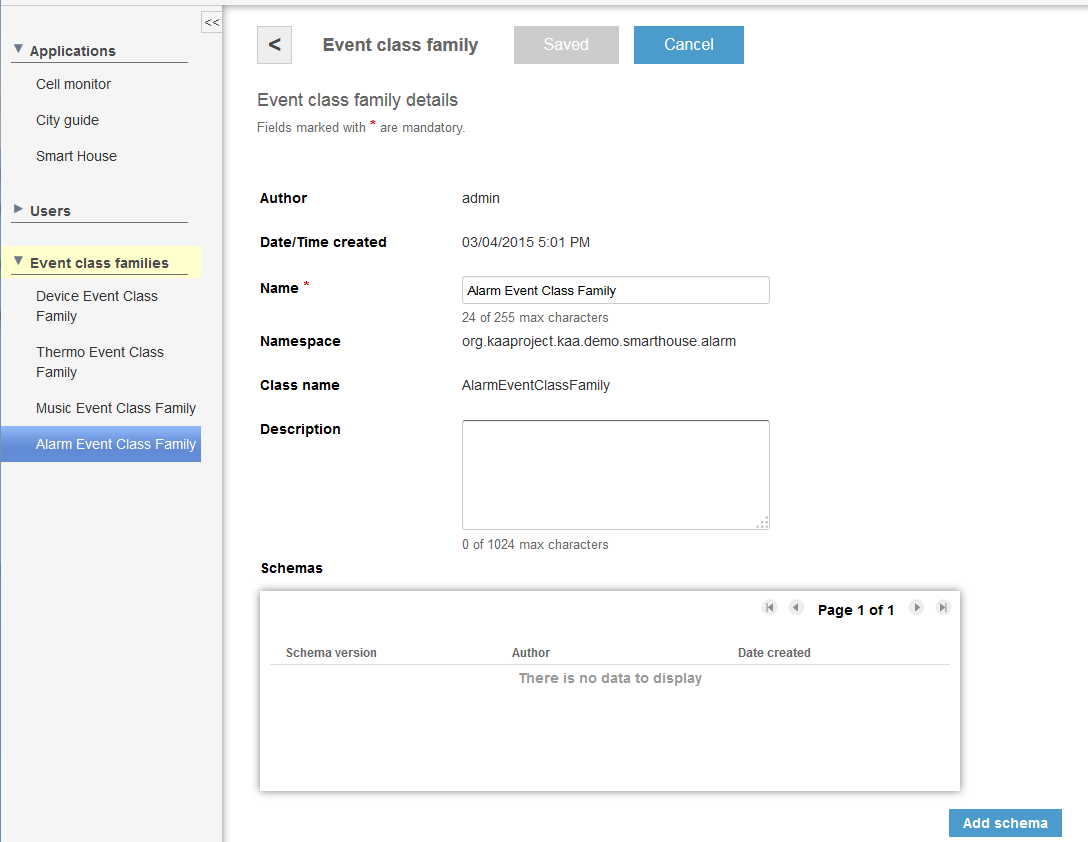
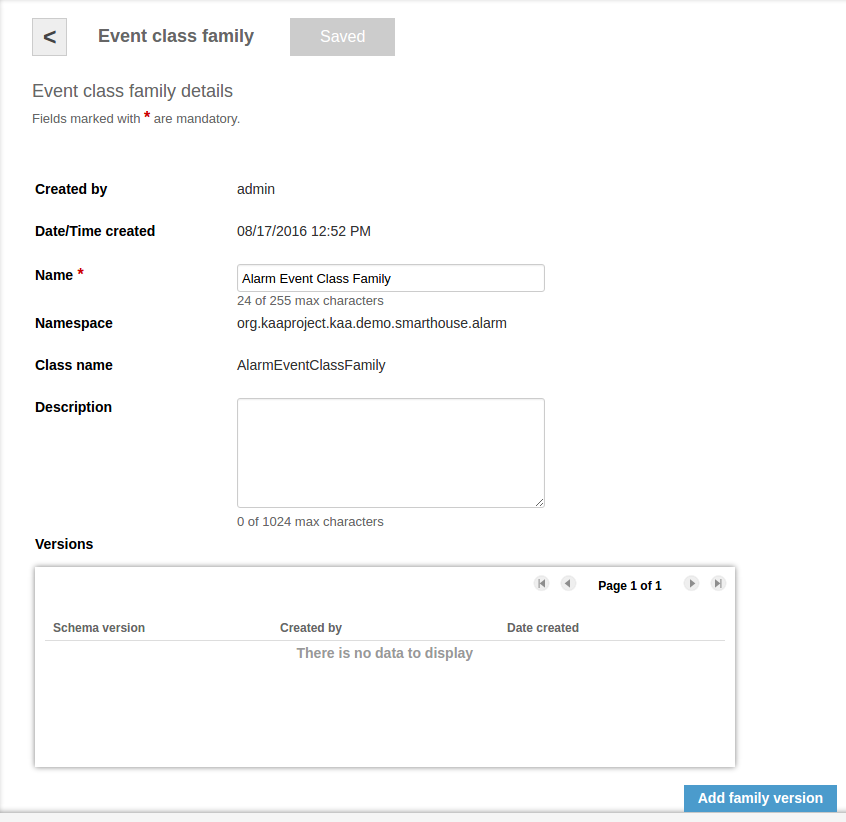
KAA-1168 fixed Events doc according to CTL migration

diff --git a/Programming-guide/Key-platform-features/Events/index.md b/Programming-guide/Key-platform-features/Events/index.md
@@ -113,9 +113,7 @@ The structure is: ECF contains list of ECFVs, each ECFV contain list of ECs.
 
 An ECF is uniquely identified by its name and/or class name and tenant. In other words, there cannot be two ECFs with the same name or same class name within a single tenant. Although this is quite a strict requirement, it helps prevent naming collisions during the SDK generation.
 
-An ECFV represents list of ECs. This means, if list of ECs changed then new ECFV is created.
-
-#TODO To simplify the process of EC and ECF setup, Kaa Web UI automatically creates the ECF and corresponding EC entities based on the ECF name, class name and schema.
+An ECFV represents list of ECs. If you need to change the list of ECs then new ECFV must be created.
 
 Unlike EC, ECF and ECFV doesn't contain any schemas. 
 
@@ -827,14 +825,13 @@ Admin REST API provides the following actions:
 * [Get event classes]({{root_url}}Programming-guide/Server-REST-APIs/#!/Events/getEventClassesByFamilyIdVersionAndType)
 * [Get vacant event class families by application token]({{root_url}}Programming-guide/Server-REST-APIs/#!/Events/getVacantEventClassFamiliesByApplicationToken)
 
-#TODO
 ## Kaa Events Admin UI
 
 #### Managing event class families
 
 > **NOTE:** this functionality available for Tenant admin
 
-To use the Kaa events feature for one or more applications, the tenant admin should create an event class family (ECF). Each ECF should be described using the Avro format. 
+To use the Kaa events feature for one or more applications, the tenant admin should create an event class family (ECF). 
 
 To create a new ECF, do the following:
 
@@ -842,16 +839,23 @@ To create a new ECF, do the following:
 2. In the **Event class families** window, click **Add ECF**. 
 ![](images/admin_ui/event_class_family/ecf1.png)
 3. In the **Add ECF** window, fill in all the required fields and then click **Add**.  
-**NOTE:** _the namespace and class name values should be unique._
+<br> **NOTE:** _the namespace and class name values should be unique._
 ![](images/admin_ui/event_class_family/ecf2.png)
-4. In the **Event class family** window, add (optionally) an ECF schema by clicking **Add schema** under the **Schemas** table. 
+4. In the **Event class family** window, add (optionally) an ECF version by clicking **Add family version** under the **Versions** table. 
 ![](images/admin_ui/event_class_family/ecf3.png)
-5. In the **Add event class family schema** window, create an ECF schema either by using the **Event class family schema** schema form or by uploading the schema from a file, then click **Add**.
-**NOTE:** _More than one schema can be added to an ECF._
-**NOTE:** _If uploaded from a file, a schema(s) should be written in the Avro format and describe how event classes should be grouped depending on subject areas._
+5. In the **Family version** window, create an ECF version by adding ECs by clicking **Add event class** and after all ECs are set up click button **Save**.
+<br> **NOTE:** _More than one version can be added to an ECF._
 ![](images/admin_ui/event_class_family/ecf4.png)
-A unique version number is assigned to a schema after its creation and then the schema appears as a clickable line in the **Schemas** table. To review the ECF schema details, click the appropriate schema line in the **Schemas** table. Each schema automatically splits into event classes. A full qualifier name, schema and type are shown for each event class in the table with the same name.
+A unique version number is assigned to a family version after its creation and then the family version appears as a clickable line in the **Versions** table. To review the ECF version details, click the appropriate version line in the **Versions** table. Each family version automatically splits into event classes. A name, type, created by, date created and flat representation of corresponding [CTL schema]({{root_url}}Programming-guide/Key-platform-features/Common-Type-Library/) are shown for each event class in the table with the same name.
 ![](images/admin_ui/event_class_family/ecf5.png)
+![](images/admin_ui/event_class_family/ecf6.png)
+6. In the **Add event class** window, fill in all the required fields and then click **Add**. 
+You are able to select existing [CTL schema]({{root_url}}Programming-guide/Key-platform-features/Common-Type-Library/) or create new. 
+To select existing [CTL schema]({{root_url}}Programming-guide/Key-platform-features/Common-Type-Library/) click on **Select fully qualified name of existing type** text field and choose one of available CTL schemas.
+To create new [CTL schema]({{root_url}}Programming-guide/Key-platform-features/Common-Type-Library/) click **Create new type** and go to p.7.
+![](images/admin_ui/event_class_family/ecf7.png)
+7. In the **Add new type** window, fill in all the required fields and then click **Add** or click **Choose file**. 
+![](images/admin_ui/event_class_family/ecf8.png)
 
 #### Adding event family mappings
 
@@ -869,5 +873,3 @@ To add a new mapping, do the following:
 2. Select an appropriate ECF from the drop-down list and then set appropriate actions for each class of the family.
 
 ![](images/admin_ui/event_family_mapping/efm2.png)
-
-
